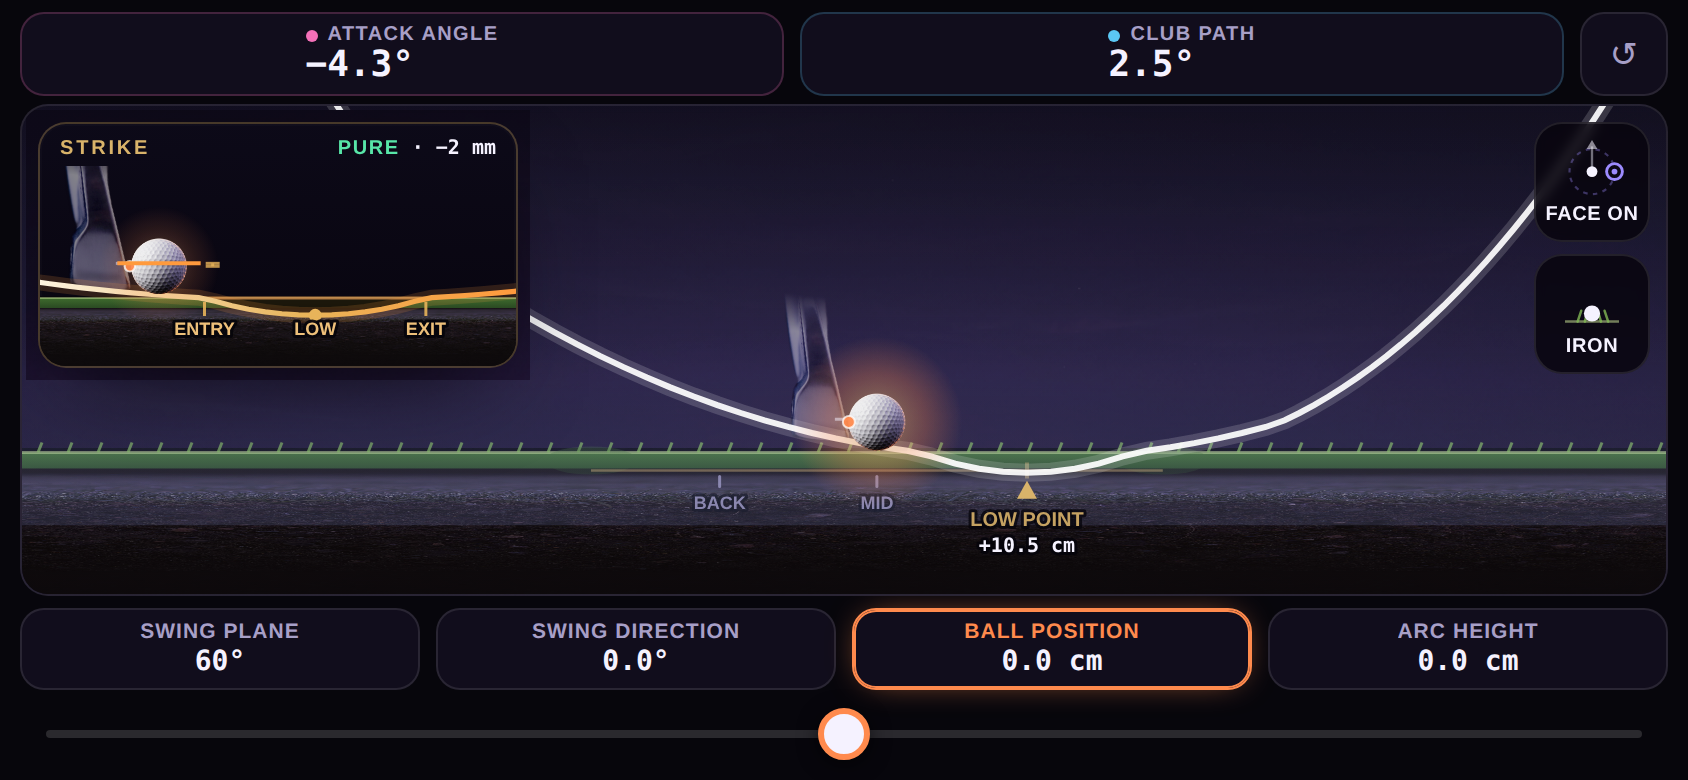
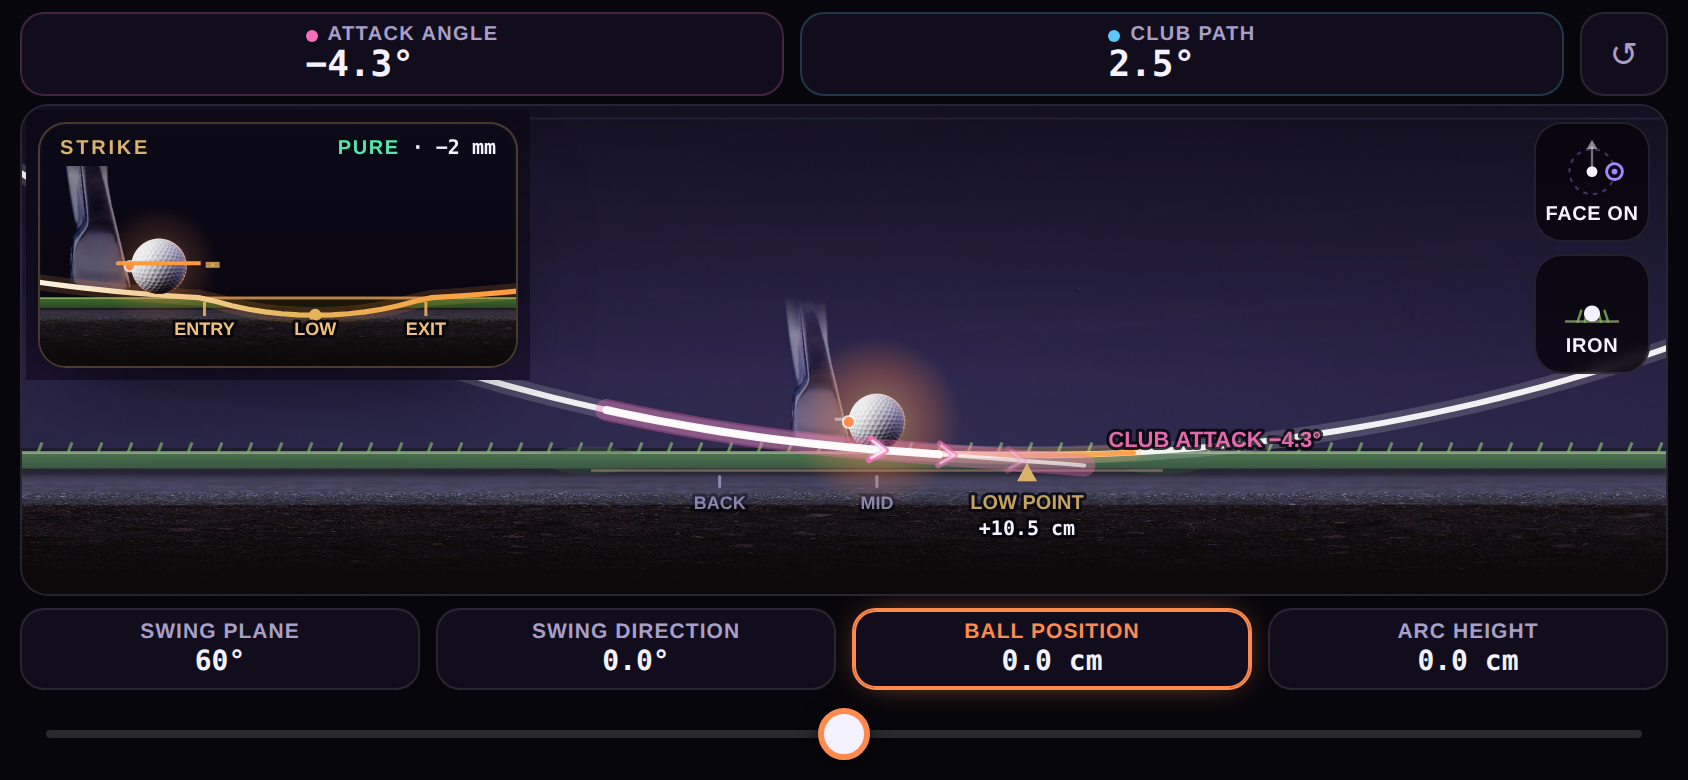
impact-studio: svingbuen som ekte sirkel i Face On
- faceMap er nå en uniform sirkel-mapping: samme px/m i x og z, over og
  under bakken. Vertikal strekk (K=2.2), tanh-overdrivelsen under
  bakken og den progressive x-kompresjonen er fjernet — buen endrer
  ikke form i bunnen (eierens beslutning). Dybde-lesbarhet bor i
  miniskjermen, som beholder sin egen forstørrelse.
- Bieffekt: ballens skjermgeometri og verdens-Y sammenfaller nå (K=1),
  så kølle/markør/bue deler ett koordinatrom uten spesialtilfeller.
- Previews oppdatert.

Claude-Session: https://claude.ai/code/session_015noFYdzdiCPii6w7rLNcFR

Changed region(s): [[0.0, 0.2462, 0.9858, 0.7077], [0.955, 0.4308, 0.9858, 0.4615], [0.9242, 0.1231, 0.955, 0.1538]]

diff --git a/design/mocks/impact-studio.html b/design/mocks/impact-studio.html
@@ -917,25 +917,17 @@ function coreLine(x1, y1, x2, y2, color, width, glow, alpha){
 const CSS = n => getComputedStyle(document.documentElement).getPropertyValue(n).trim();
 
 /* ============================================================ FACE ON
- * Impact-centred reframe: ~0.95 m virtual window, ground line at 65 % height,
- * ball at 40 % width. Below-ground z is exaggerated (soft-capped) so shallow
- * divots stay visible. */
+ * Impact-centred reframe: uniform circular mapping — the same px/m scale in
+ * x and z, above and below ground, so the swing arc renders as a TRUE
+ * circle with no shape change at the bottom (owner decision). Depth
+ * legibility lives in the inset, which keeps its own magnification. */
 function faceMap(){
   const winM = W >= 700 ? 1.15 : 0.95;
   const scale = W / winM;                       // px per metre
   const bx = W * 0.52, gy = H * 0.71;           // scene sits right of the mini screen
-  const K = 2.2;                                // vertical compression: arc reads as a U, like DTL
-  const EXAG = 6, CAP = 0.042;                  // below-ground exaggeration (on top of K)
-  const zMap = z => z >= 0 ? z * K : -CAP * Math.tanh(-z * EXAG / CAP) * (K * 0.55);
-  /* progressive horizontal compression: the contact zone (±0.28 m around
-     the ball) stays true-scale; the outer arms compress to 0.62× so the
-     arc reads as a tighter U */
-  const XC = 0.28, KX = 0.62;
-  const xComp = xm => Math.abs(xm) <= XC ? xm
-    : Math.sign(xm) * (XC + (Math.abs(xm) - XC) * KX);
-  return { scale, bx, gy, K,
-    X: xm => bx + xComp(xm) * scale,
-    Y: zm => gy - zMap(zm) * scale };
+  return { scale, bx, gy, K: 1,
+    X: xm => bx + xm * scale,
+    Y: zm => gy - zm * scale };
 }
 function drawFace(t){
   const s = engineState();